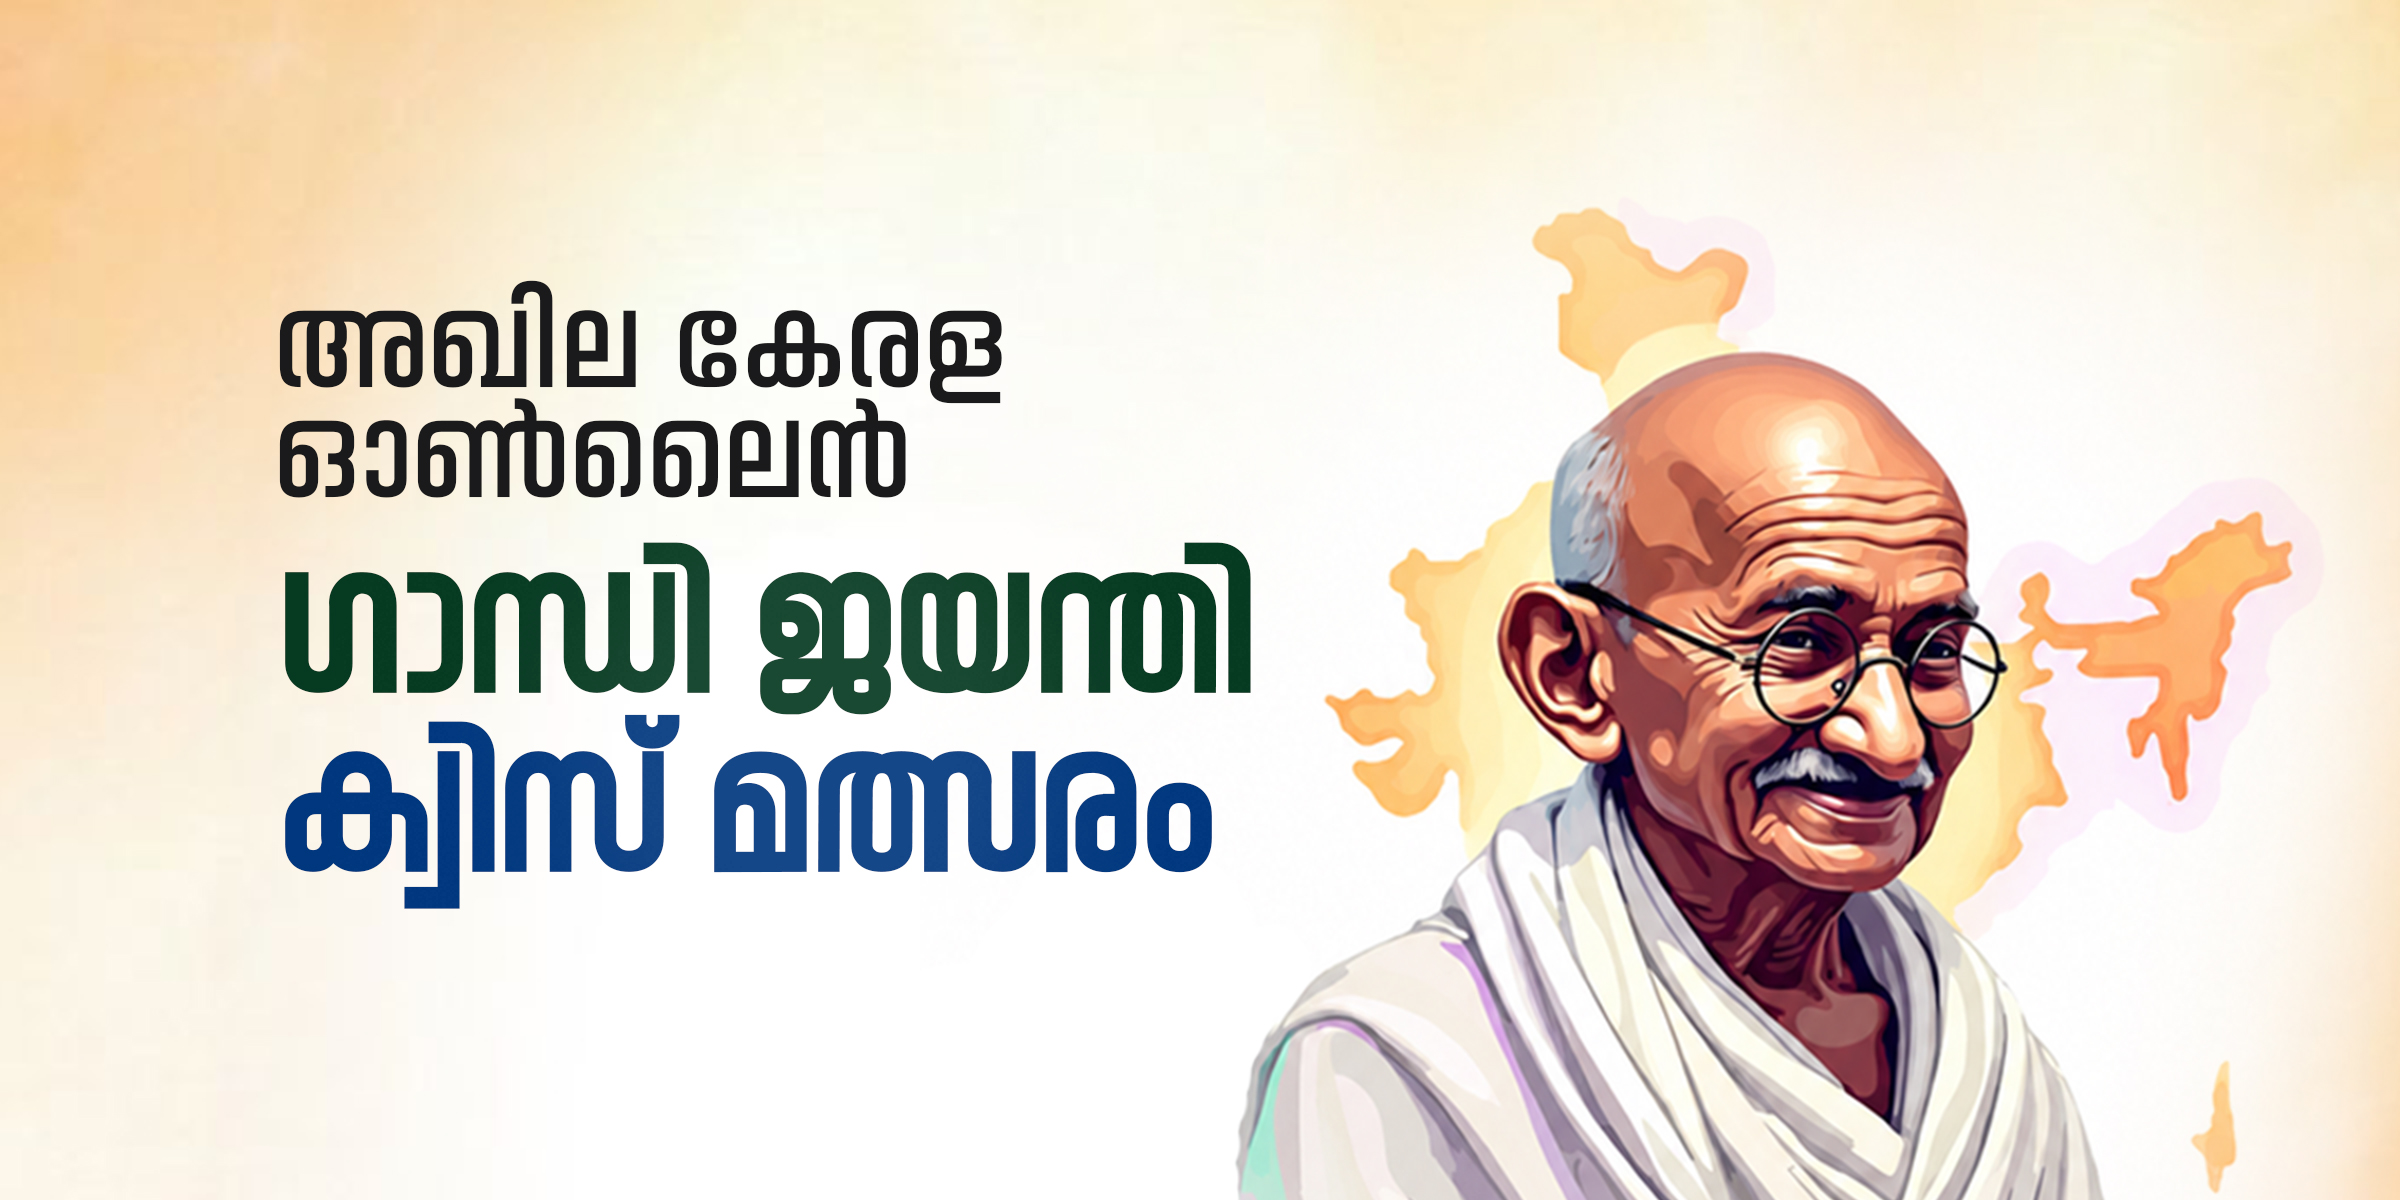
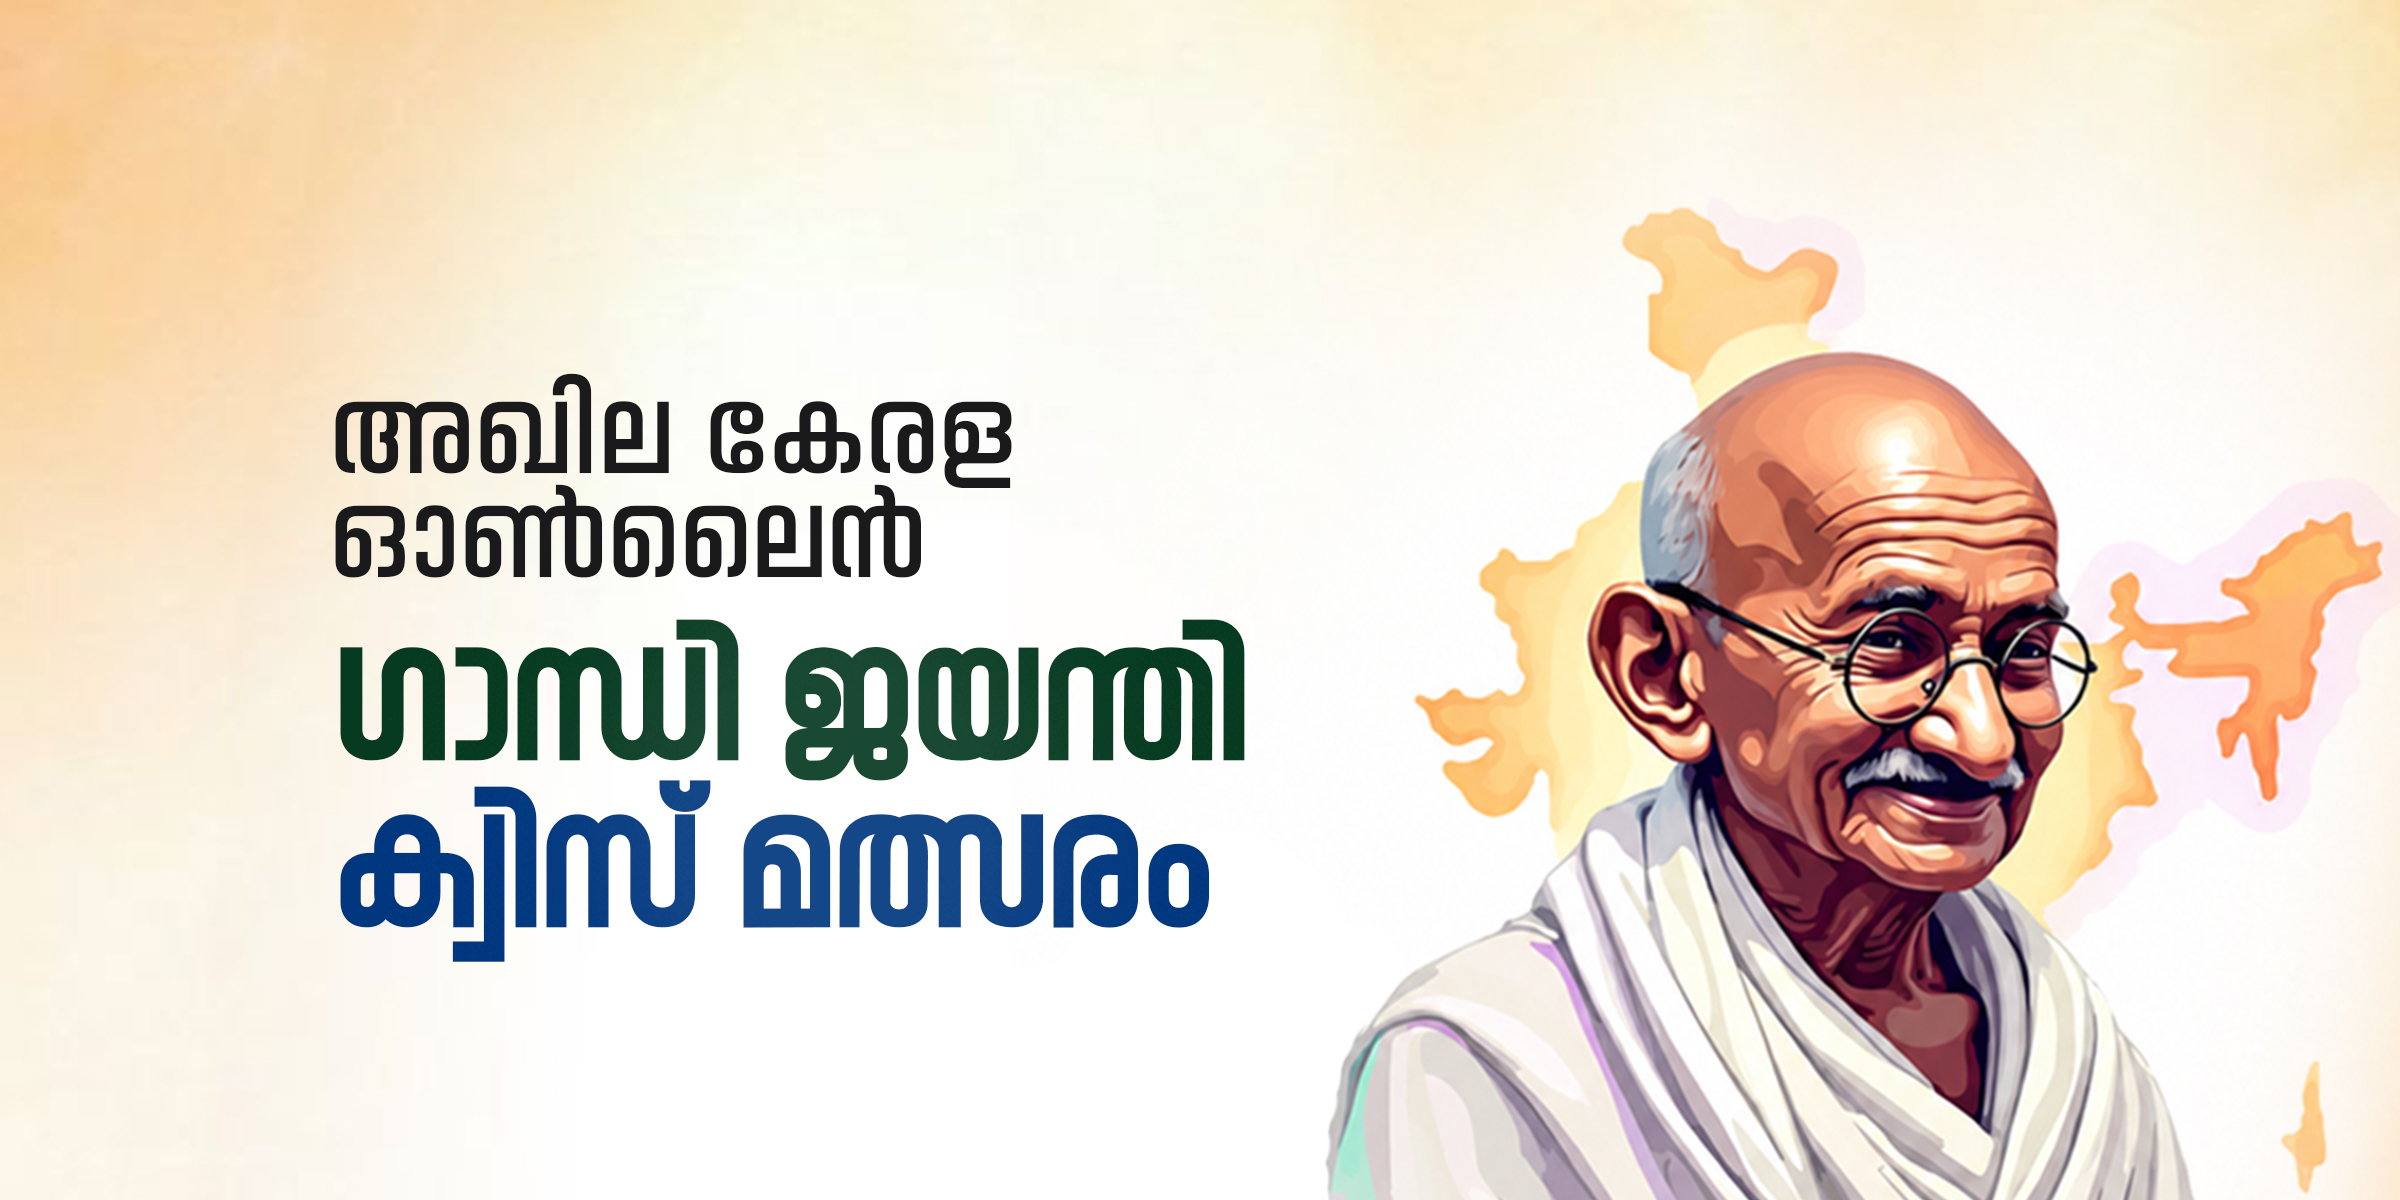
fix(cards): update event cards posters from public/Posters

Changed region(s): [[0.0938, 0.1542, 1.0, 1.0]]

diff --git a/src/components/landing/UpcomingEventsSection.tsx b/src/components/landing/UpcomingEventsSection.tsx
@@ -35,7 +35,7 @@ const EVENTS: EventItem[] = [
     id: 'poster-2026',
     image: '/images/contest_poster.jpeg',
     badge: { text: 'Registration Open', type: 'open' },
-    date: '30 NOV 2026',
+    date: '15 NOV 2026',
     title: 'Digital Poster Creation Contest 2026',
     description: 'Express your perspective on social and environmental themes. Submit original digital artwork to earn verified credentials and merit awards.',
     tags: {
